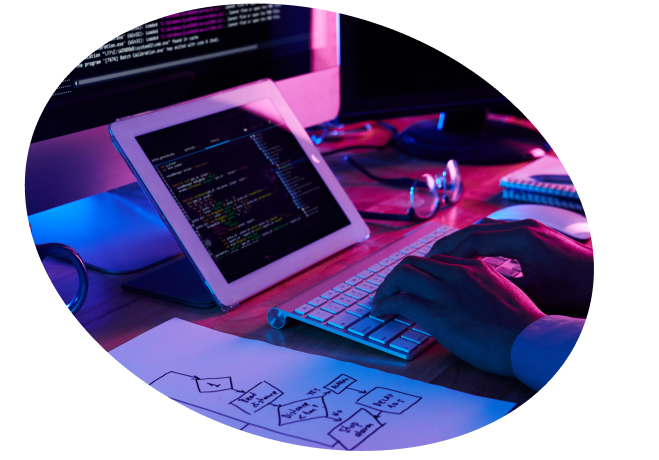
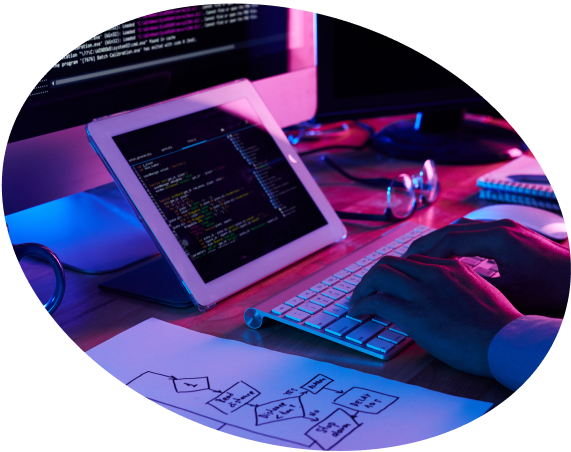
доделал адаптив promo

diff --git a/style.css b/style.css
@@ -163,12 +163,6 @@ section {
 .promo__btn:hover {
   box-shadow: 0px 0px 7px #5531AB;
 }
-.promo__img-wrap {
-  background: url(img/ellipse-img.png);
-  background-repeat: no-repeat;
-  height: 480px;
-  background-size: contain;
-}
 .promo__img-wrap:before {
   content: '';
   position: absolute;
@@ -188,7 +182,7 @@ section {
   position: absolute;
   top: 0;
   left: 0;
-  animation: rotate 40s infinite linear;
+  animation: rotate 30s infinite linear;
   z-index: -1;
   transform-origin: center center;
 }
@@ -251,13 +245,17 @@ section {
 .promo__mobile-adapt {
   row-gap: 70px;
 }
+.promo__marquee {
+  display: none;
+}
 .promo__mobile-adapt .promo__marquee label {
   font-size: 35px;
   font-family: Zona Pro;
   font-weight: 900;
+  color: #000;
 }
 .mobile-adapt__date label {
-  font-size: 30px;
+  font-size: 40px;
   font-family: Moscow Sans;
   font-weight: 300;
 }
@@ -267,7 +265,7 @@ section {
   background-color: #000;
   display: inline-block;
   position: relative;
-  bottom: 7px;
+  bottom: 12px;
 }
 
 .main-title {
@@ -571,10 +569,10 @@ footer {
 
 @keyframes rotate {
   0% {
-    transform: translate(-15%, 20%) rotate(-16.263deg);
+    transform: translate(-15%, 19%) rotate(-16.263deg);
   }
   100% {
-    transform: translate(-15%, 20%) rotate(360deg);
+    transform: translate(-15%, 19%) rotate(360deg);
   }
 }
 
@@ -620,7 +618,8 @@ footer {
     font-size: 38px;
   }
   .promo__img-wrap {
-    width: 550px;
+    transform: scale(.9);
+    margin-left: 10px;
   }
   .promo__img-wrap:after {
     transform: scale(.9);
@@ -628,7 +627,7 @@ footer {
     left: 0;
   }
   .promo__pills {
-    margin-top: 200px;
+    margin-top: 150px;
   }
   .promo__pills .pill span {
     font-size: 35px;
@@ -708,6 +707,9 @@ footer {
   .first-row-pills-wrap {
     margin-left: 0;
   }
+  .promo__img-wrap {
+    margin-left: 0;
+  }
   .info-row__column1:before {
     bottom: -40%;
     left: 55%;
@@ -773,10 +775,13 @@ footer {
   .promo__img-wrap {
     width: 500px;
   }
-  .promo .promo__img-wrap:after {
-    /* transform: scale(.7); */
-    /* top: -20%;
-    left: 0; */
+  .promo__img-wrap {
+    transform: scale(.69);
+    margin-top: -70px;
+    margin-left: -5px;
+  }
+  .promo__pills {
+    margin-top: 80px;
   }
   .promo__pills .pill span {
     font-size: 30px;
@@ -908,6 +913,9 @@ footer {
   .promo__btn label {
     font-size: 25px;
   }
+  .promo__pills {
+    margin-top: 15px;
+  }
   .promo__pills .pill span {
     font-size: 22px;
   }
@@ -917,6 +925,12 @@ footer {
   .promo__pills .pill2  {
     padding: 12px 43px 13px 43px;
   } 
+  .promo__img-wrap {
+    transform: scale(.55);
+    margin-top: -100px;
+    margin-left: -55px;
+  }
+
   .main-title {
     font-size: 50px !important;
   }
@@ -1033,6 +1047,9 @@ footer {
   .promo, .programm {
     padding-right: 80px;
   }
+  .promo__titles {
+    margin-top: 20px;
+  }
   .promo__titles .title1 {
     margin-bottom: 24px;
   }
@@ -1050,15 +1067,21 @@ footer {
     margin-bottom: 8px;
   }
   .promo__btn {
-    height: 40%;
     display: flex;
     align-items: center;
     justify-content: center;
-    padding: 0;
-    width: 50%;
+    padding: 30px;
+    width: 70%;
   }
   .promo__btn label {
     font-size: 22px;
+  }
+  .promo__pills {
+    margin-top: 0;
+  }
+  .promo__img-wrap {
+    transform: scale(.7);
+    margin-left: 0;
   }
   .main-title { 
     font-size: 40px !important;
@@ -1170,6 +1193,9 @@ footer {
     padding-top: 50px;
     padding-bottom: 50px;
   }
+  .promo__titles {
+    margin-top: -20px;
+  }
   .promo__titles .title1 {
     margin-bottom: 24px;
   }
@@ -1180,22 +1206,18 @@ footer {
     bottom: -20px;
     height: 15px;
   }
-  .promo__date h3, .promo__date p {
-    font-size: 25px;
+  .promo__img-wrap {
+    transform: scale(.6);
+    margin-top: -90px;
   }
-  .promo__date p label:nth-of-type(2) {
-    margin-top: -30px;
+  .promo__mobile-adapt {
+    row-gap: 54px;
   }
-  .promo .promo__date h3 {
-    margin-bottom: 0px;
-  }
-  .promo__date p span {
-    height: 4px;
-    width: 80px;
+  .mobile-adapt__date label {
+    font-size: 32px;
   }
   .promo__btn {
-    height: 50%;
-    width: 50%;
+    width: 90%;
   }
   .promo__btn label {
     font-size: 19px;
@@ -1301,7 +1323,7 @@ footer {
     margin-top: 0;
   }
   .promo__pills .pill span {
-    font-size: 19px;
+    font-size: 18px;
   }
   .promo__pills .pill1 {
     padding: 14px 25px 7px 25px;
@@ -1323,6 +1345,27 @@ footer {
   .promo__btn label {
     font-size: 20px;
   }
+  .promo__mobile-adapt {
+    row-gap: 34px;
+  }
+  .promo__img-wrap {
+    margin-top: -90px;
+  }
+  .promo__img-wrap::before {
+    height: 380px;
+    top: 30%;
+  }
+  .promo__marquee {
+    display: block;
+    margin-top: -50px;
+  }
+  .mobile-adapt__date label {
+    font-size: 28px;
+  }
+  .mobile-adapt__date label span {
+    bottom: 7px;
+  }
+
 
   .programm {
     padding-top: 10px;
@@ -1397,15 +1440,6 @@ footer {
     bottom: -10px;
     height: 10px;
   }
-  .promo__date h3, .promo__date p {
-    font-size: 20px;
-  }
-  .promo__date p label:nth-of-type(2) {
-    margin-top: -40px;
-  }
-  .promo .promo__date h3 {
-    margin-bottom: -10px;
-  }
   .promo__pills {
     gap: 14px;
   }
@@ -1413,7 +1447,7 @@ footer {
     column-gap: 14px;
   }
   .promo__pills .pill span {
-    font-size: 18px;
+    font-size: 17px;
   }
   .promo__pills .pill1 {
     padding: 16px 33px 9px 33px;
@@ -1491,6 +1525,9 @@ footer {
 @media screen and (max-width: 400px) {
   .mobile-adapt__date label {
     max-width: 200px;
+  }
+  .promo__btn label {
+    font-size: 17px;
   }
   .programm__path {
     margin-top: 12px;

diff --git a/index.html b/index.html
@@ -90,8 +90,8 @@
 
   <section class="promo">
     <div class="container">
-      <div class="row d-none d-sm-flex">
-        <div class="col-lg-7 col-12 d-flex flex-column promo__col-wrap1">
+      <div class="row d-none d-lg-flex">
+        <div class="col-lg-7 col-12 d-flex flex-column promo__col-wrap1 px-0">
           <div class="promo__titles">
             <h1 class="title1 text-center text-lg-start">Ваш путь в IT начинается здесь.</h1>
             <h1 class="title2 text-center text-lg-start">Получите реальные навыки <span>бесплатно!</span></h1>
@@ -113,9 +113,11 @@
           </div>
         </div>
 
-        <div class="col-lg-5 col-12 d-flex flex-column align-items-center align-items-lg-start row-gap-0">
+        <div class="col-lg-5 col-12 d-flex flex-column align-items-center align-items-lg-start row-gap-0 px-0">
 
-          <div class="promo__img-wrap position-relative"></div>
+          <div class="promo__img-wrap position-relative">
+            <img src="img/ellipse-img.png" alt="">
+          </div>
 
           <div class="promo__pills d-flex flex-wrap justify-content-center justify-content-lg-start">
             <div class="first-row-pills-wrap">
@@ -139,13 +141,20 @@
         </div>
       </div>
 
-      <div class="promo__mobile-adapt d-sm-none d-flex flex-column">
-        <div class="promo__img-wrap position-relative"></div>
+      <div class="promo__mobile-adapt d-lg-none d-flex flex-column align-items-center">
+        <div class="promo__img-wrap position-relative">
+          <img src="img/ellipse-img.png" alt="">
+        </div>
 
-        <div class="promo__marquee overflow-hidden"><label for="">Бесплатный вебинар по разработке сайтов с нуля.</label></div>
+        <div class="promo__titles d-none d-sm-block">
+          <h1 class="title1 text-center text-lg-start">Ваш путь в IT начинается здесь.</h1>
+          <h1 class="title2 text-center text-lg-start">Получите реальные навыки <span>бесплатно!</span></h1>
+        </div>
+
+        <marquee behavior="" direction="" class="promo__marquee overflow-hidden"><label>Бесплатный вебинар по разработке сайтов с нуля.</label></marquee>
 
         <div class="mobile-adapt__date text-center">
-            <label for="" class="">Октябрь 07 <span></span> 00:00</label>
+            <label class="">Октябрь 07 <span></span> 00:00</label>
         </div>
 
         <div class="promo__pills d-flex flex-wrap justify-content-center justify-content-lg-start">

diff --git a/script.js b/script.js
@@ -3,6 +3,6 @@ $(function() {
     startVisible: true,
     duplicated: true,
     delayBeforeStart: 0,
-    speed: 35
+    speed: 650
   });
 });
